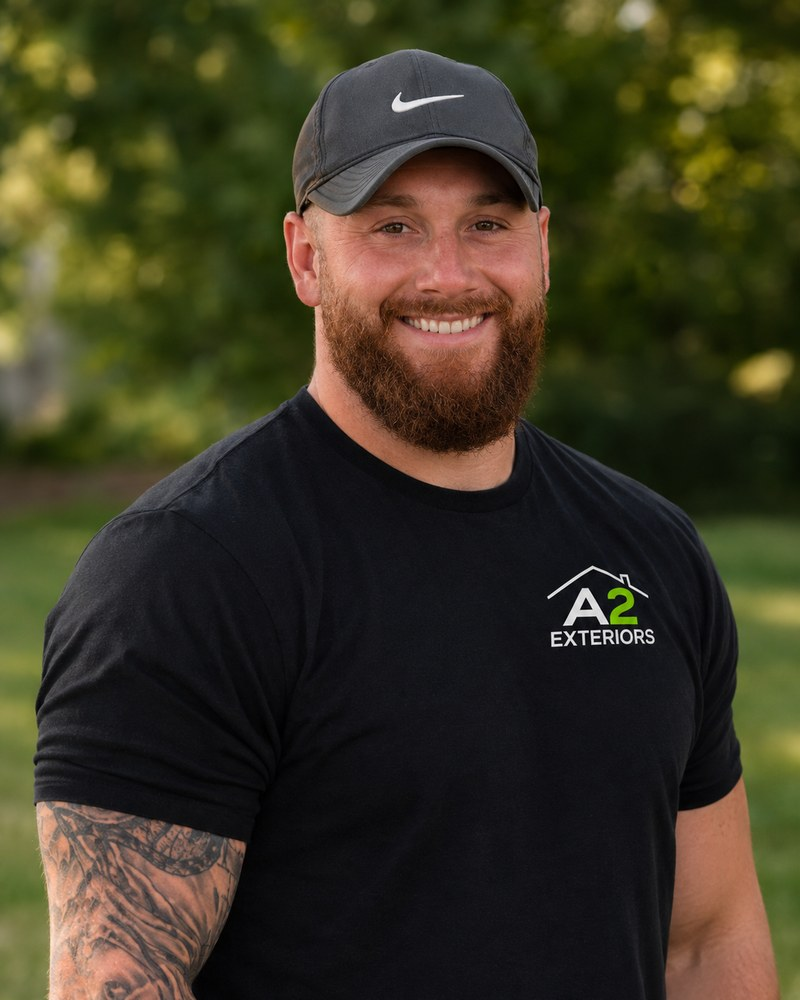
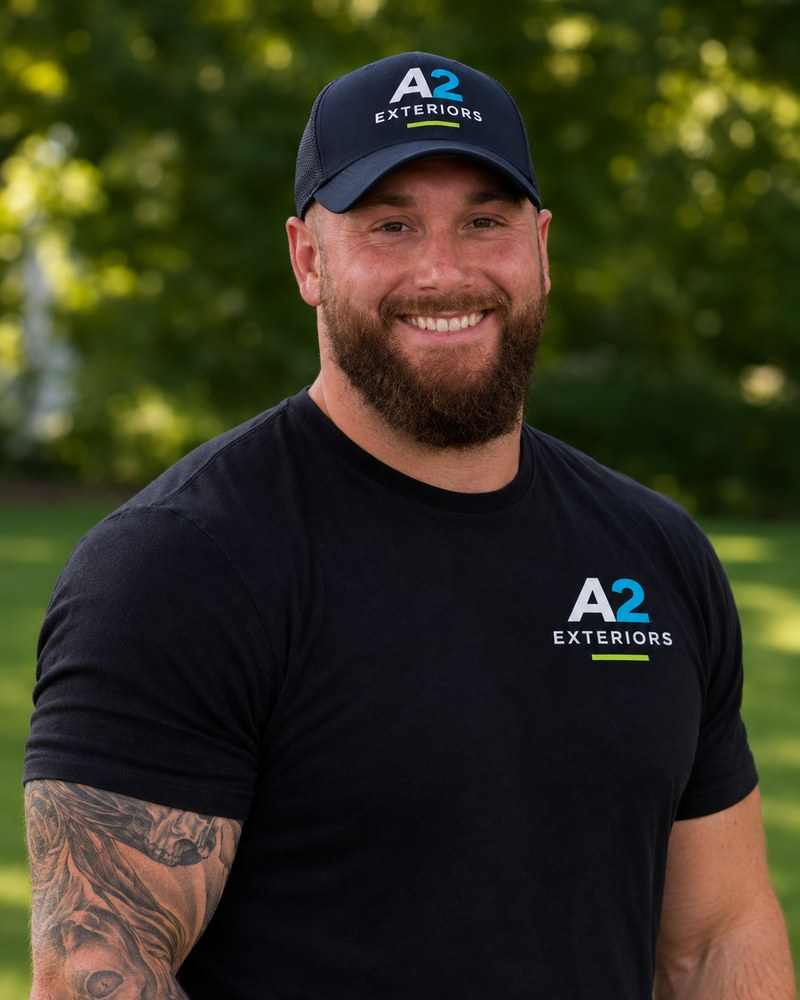
A2 prototype: use the A2-cap portrait of Anthony
Swap the owner photo on the homepage and About page for the version
showing the current apparel logo; update alt text and the library index.

Claude-Session: https://claude.ai/code/session_01CxV4BDXSSMYwEUMBB25tfR

diff --git a/mockups/a2-exteriors/site/index.html b/mockups/a2-exteriors/site/index.html
@@ -248,7 +248,7 @@
 <!-- 06 Meet Anthony -->
 <section class="section is-dark" aria-labelledby="owner-title">
   <div class="container owner">
-    <div class="owner-photo edge-photo reveal"><img class="owner-img" src="images/anthony-aubrey-owner.webp" alt="Anthony Aubrey, owner of A2 Exteriors, smiling outdoors in an A2 Exteriors t-shirt and cap" width="800" height="1000" loading="lazy" decoding="async"></div>
+    <div class="owner-photo edge-photo reveal"><img class="owner-img" src="images/anthony-aubrey-owner.webp" alt="Anthony Aubrey, owner of A2 Exteriors, smiling outdoors in an A2 Exteriors cap and t-shirt" width="800" height="1000" loading="lazy" decoding="async"></div>
     <div class="owner-note">
       <h2 id="owner-title">Good work. Done right.</h2>
       <p>I'm Anthony Aubrey, and I own A2 Exteriors. <span class="tbc">When you call or text, you reach me.</span></p>

diff --git a/mockups/a2-exteriors/site/about.html b/mockups/a2-exteriors/site/about.html
@@ -92,7 +92,7 @@
       <h2>Licensing and insurance</h2>
       <p><span class="tbc">Connecticut registration or license number, and insurance details. Shown only once confirmed.</span></p>
     </div>
-    <div class="owner-photo"><img class="owner-img" src="images/anthony-aubrey-owner.webp" alt="Anthony Aubrey, owner of A2 Exteriors, smiling outdoors in an A2 Exteriors t-shirt and cap" width="800" height="1000" loading="lazy" decoding="async"></div>
+    <div class="owner-photo"><img class="owner-img" src="images/anthony-aubrey-owner.webp" alt="Anthony Aubrey, owner of A2 Exteriors, smiling outdoors in an A2 Exteriors cap and t-shirt" width="800" height="1000" loading="lazy" decoding="async"></div>
   </div>
 </section>
 

diff --git a/mockups/a2-exteriors/content.py b/mockups/a2-exteriors/content.py
@@ -569,7 +569,7 @@ HOME_BODY = f"""
 <!-- 06 Meet Anthony -->
 <section class="section is-dark" aria-labelledby="owner-title">
   <div class="container owner">
-    <div class="owner-photo edge-photo reveal"><img class="owner-img" src="@@IMG@@anthony-aubrey-owner.webp" alt="Anthony Aubrey, owner of A2 Exteriors, smiling outdoors in an A2 Exteriors t-shirt and cap" width="800" height="1000" loading="lazy" decoding="async"></div>
+    <div class="owner-photo edge-photo reveal"><img class="owner-img" src="@@IMG@@anthony-aubrey-owner.webp" alt="Anthony Aubrey, owner of A2 Exteriors, smiling outdoors in an A2 Exteriors cap and t-shirt" width="800" height="1000" loading="lazy" decoding="async"></div>
     <div class="owner-note">
       <h2 id="owner-title">Good work. Done right.</h2>
       <p>I'm Anthony Aubrey, and I own A2 Exteriors. [[tbc:When you call or text, you reach me.]]</p>
@@ -853,7 +853,7 @@ ABOUT_BODY = f"""
       <h2>Licensing and insurance</h2>
       <p>[[tbc:Connecticut registration or license number, and insurance details. Shown only once confirmed.]]</p>
     </div>
-    <div class="owner-photo"><img class="owner-img" src="@@IMG@@anthony-aubrey-owner.webp" alt="Anthony Aubrey, owner of A2 Exteriors, smiling outdoors in an A2 Exteriors t-shirt and cap" width="800" height="1000" loading="lazy" decoding="async"></div>
+    <div class="owner-photo"><img class="owner-img" src="@@IMG@@anthony-aubrey-owner.webp" alt="Anthony Aubrey, owner of A2 Exteriors, smiling outdoors in an A2 Exteriors cap and t-shirt" width="800" height="1000" loading="lazy" decoding="async"></div>
   </div>
 </section>
 """

diff --git a/mockups/a2-exteriors/source-assets/library/LIBRARY.md b/mockups/a2-exteriors/source-assets/library/LIBRARY.md
@@ -7,8 +7,8 @@ noted.
 
 | File | What it shows | Good for | Suggested alt text |
 |---|---|---|---|
-| `anthony-aubrey-portrait-nike-cap` | Waist-up portrait outdoors, black A2 shirt (roofline logo, green 2), dark Nike cap, green trees behind | **In use:** homepage Meet Anthony, About page | Anthony Aubrey, owner of A2 Exteriors, smiling outdoors in an A2 Exteriors t-shirt and cap |
-| `anthony-aubrey-portrait-a2-cap` | Same photo as the portrait in use, with the cap and shirt showing the current logo (white A, water-blue 2, green underline) | Swap in for the in-use portrait if this is the official apparel logo | Anthony Aubrey, owner of A2 Exteriors, smiling outdoors in an A2 Exteriors cap and t-shirt |
+| `anthony-aubrey-portrait-nike-cap` | Waist-up portrait outdoors, black A2 shirt (roofline logo, green 2), dark Nike cap, green trees behind | Replaced on the site by the A2-cap version (2026-11-14) | Anthony Aubrey, owner of A2 Exteriors, smiling outdoors in an A2 Exteriors t-shirt and cap |
+| `anthony-aubrey-portrait-a2-cap` | Same photo as the portrait in use, with the cap and shirt showing the current logo (white A, water-blue 2, green underline) | **In use:** homepage Meet Anthony, About page | Anthony Aubrey, owner of A2 Exteriors, smiling outdoors in an A2 Exteriors cap and t-shirt |
 | `anthony-aubrey-standing-a2-cap` | Three-quarter standing shot, navy A2 cap and black A2 shirt, white modern building and tropical plants behind | About page, team or careers content. Setting does not read as a Connecticut job site | Anthony Aubrey of A2 Exteriors standing outside in an A2 Exteriors cap and t-shirt |
 | `anthony-aubrey-closeup-backwards-cap` | Close head-and-shoulders, backwards cap, shirt with roofline logo and green 2, green trees behind | Testimonial or contact sections, social profile, Google Business Profile owner photo | Anthony Aubrey, owner of A2 Exteriors, smiling outdoors |
 

diff --git a/mockups/a2-exteriors/README.md b/mockups/a2-exteriors/README.md
@@ -257,7 +257,7 @@ full-width hero.
 
 ## Owner portrait (2026-11-14)
 
-`source-assets/anthony-aubrey-portrait-original.png` (1086x1448), cropped to 4:5 from the top,
+`source-assets/library/anthony-aubrey-portrait-a2-cap.png` (1086x1448; replaced the Nike-cap version), cropped to 4:5 from the top,
 saved as `site/images/anthony-aubrey-owner.{webp,jpg}` (800x1000, 51KB webp). Used in the
 homepage "Meet Anthony" section and the About page. Note: the shirt carries a different logo
 version (roofline over "A2", green "2") from the site's logo files.
